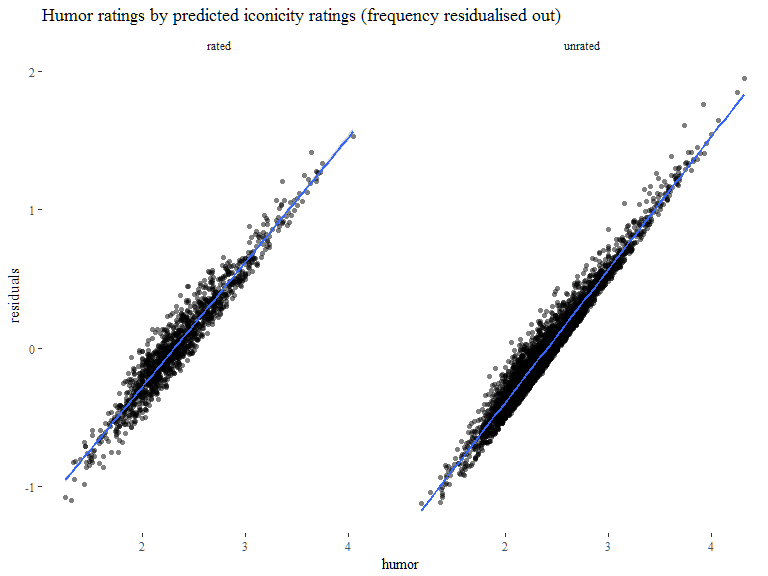
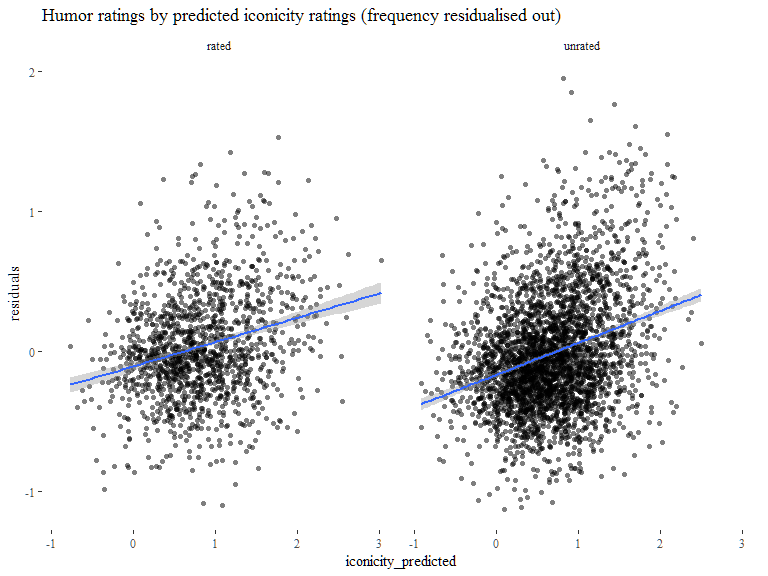
residuals

diff --git a/playful_iconicity.md b/playful_iconicity.md
@@ -1,7 +1,7 @@
 Playful iconicity: relating iconicity and humor ratings for English words
 ================
 Mark Dingemanse
-Updated 2017-08-17
+Updated 2017-08-18
 
 People have feelings about the funniness of words. They can express these feelings in terms of word-level ratings. In a recent set of word-level norms, Engelthaler & Hills 2017 claim that these ratings are "not well predicted by existing norms". The highest correlations they find are between humor ~ frequency and humour ~ lexical decision RT.
 
@@ -231,7 +231,6 @@ df %>%
     ## 13     arch 2.026316  2.500000
     ## 14   scream 1.952381  2.500000
 
-
 Plots
 -----
 
@@ -281,8 +280,6 @@ ggplot(df,aes(humor,iconicity)) +
 
 Let's residualise out `log_freq` so we get a better look at the humor ~ iconicity relation; and conversely, residualise `iconicity` to look at humor ~ frequency.
 
-(Is this at all helpful?)
-
 ``` r
 summary(lm(humor ~ freq_log + iconicity,df))
 ```
@@ -309,8 +306,8 @@ summary(lm(humor ~ freq_log + iconicity,df))
 
 ``` r
 df$residuals <- residuals(lm(humor ~ freq_log,df))
-ggplot(df,aes(humor,residuals)) +
-  theme_tufte() + ggtitle("Humor ratings, frequency residualised out") + 
+ggplot(df,aes(iconicity,residuals)) +
+  theme_tufte() + ggtitle("Iconicity, frequency residualised out") + 
   geom_point(shape=16,alpha=0.5) +
   geom_smooth(method="lm")
 ```
@@ -319,8 +316,8 @@ ggplot(df,aes(humor,residuals)) +
 
 ``` r
 df$residuals <- residuals(lm(humor ~ iconicity,df))
-ggplot(df,aes(humor,residuals)) +
-  theme_tufte() + ggtitle("Humor ratings, iconicity residualised out") + 
+ggplot(df,aes(freq_log,residuals)) +
+  theme_tufte() + ggtitle("Log frequency, iconicity residualised out") + 
   geom_point(shape=16,alpha=0.5) +
   geom_smooth(method="lm")
 ```
@@ -392,7 +389,7 @@ summary(lm(humor ~ freq_log + iconicity_predicted,df_pred))
 ``` r
 df_pred$residuals <- residuals(lm(humor ~ freq_log,df_pred))
 
-ggplot(df_pred,aes(humor,residuals)) +
+ggplot(df_pred,aes(iconicity_predicted,residuals)) +
   theme_tufte() + ggtitle("Humor ratings by predicted iconicity ratings (frequency residualised out)") +   geom_point(shape=16,alpha=0.5) +
   geom_smooth(method="lm") +
   facet_wrap(~ set)

diff --git a/README.md b/README.md
@@ -3,8 +3,4 @@ Mark Dingemanse, August 2017
 
 People have feelings about the funniness of words. They can express these feelings in terms of word-level ratings. In a recent set of word-level norms, Engelthaler & Hills 2017 claim that these ratings are "not well predicted by existing norms". The highest correlations they find are between humor ~ frequency and humour ~ lexical decision RT. 
 
-However, humor ratings do not occur in a vacuum: presumably subjects are using some information when judging how funny a word is. Here I examine the relation between humor ratings and iconicity ratings, under a simple prediction: *iconicity ratings will be positively correlated with humor ratings, controlling for frequency* (there are other relevant factors to control for which I skip over in this preliminary analysis).
-
-The theoretical interest here is that people working on iconic words have long drawn attention to their expressive and playful nature. If there is indeed a link between iconicity and the subjective funnyness of words, this solidifies a relationship that has has so far been based mainly on anecdotal observations and studies of relatively small numbers of words.
-
-More details in [playful_iconicity.md](https://github.com/mdingemanse/playful_iconicity/blob/master/playful_iconicity.md). Comments? mark.dingemanse@mpi.nl.
+However, humor ratings do not occur in a vacuum: presumably subjects are using some information when judging how funny a word is. Here I examine the relation between humor ratings and iconicity ratings. More details in [playful_iconicity.md](https://github.com/mdingemanse/playful_iconicity/blob/master/playful_iconicity.md). Comments? mark.dingemanse@mpi.nl.
